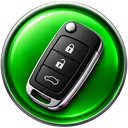
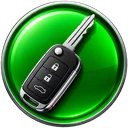
Ignicao: canivete fechado vermelho (desligada) e aberto verde (ligada) (28/10/2026)
Claude-Session: https://claude.ai/code/session_01UqpUQnBDLQ9f3Worn7r94n

diff --git a/tempo-real.html b/tempo-real.html
@@ -3078,8 +3078,8 @@ details:not([open])>summary .ico.lix[data-a="deleq"],details:not([open])>summary
 </style>
 <style>/* 28/10/2026 (dono): botões do cartão com ícones realistas (pasta icv/). Para voltar: apagar este bloco. */
 #sheet .vign.on,#sheet .vign.off{background:center/100% 100% no-repeat;border:0}
-#sheet .vign.on{background-image:url(icv/ui-chave-on.webp?v=4);box-shadow:0 0 12px rgba(34,197,94,.55)}
-#sheet .vign.off{background-image:url(icv/ui-chave-off.webp?v=4);box-shadow:0 0 8px rgba(220,38,38,.35)}
+#sheet .vign.on{background-image:url(icv/ui-chave-on.webp?v=5);box-shadow:0 0 12px rgba(34,197,94,.55)}
+#sheet .vign.off{background-image:url(icv/ui-chave-off.webp?v=5);box-shadow:0 0 8px rgba(220,38,38,.35)}
 #sheet .vign.on svg,#sheet .vign.off svg{display:none}
 main #sheet .vname .vign.on,main #sheet .vname .vign.off{width:34px;height:34px}
 main #sheet #btnRenome,main #sheet #btnIcone,main #sheet #btnRuaVer.adm{background:center/100% 100% no-repeat;border:0;box-shadow:0 2px 5px rgba(0,0,0,.18);border-radius:9px}
